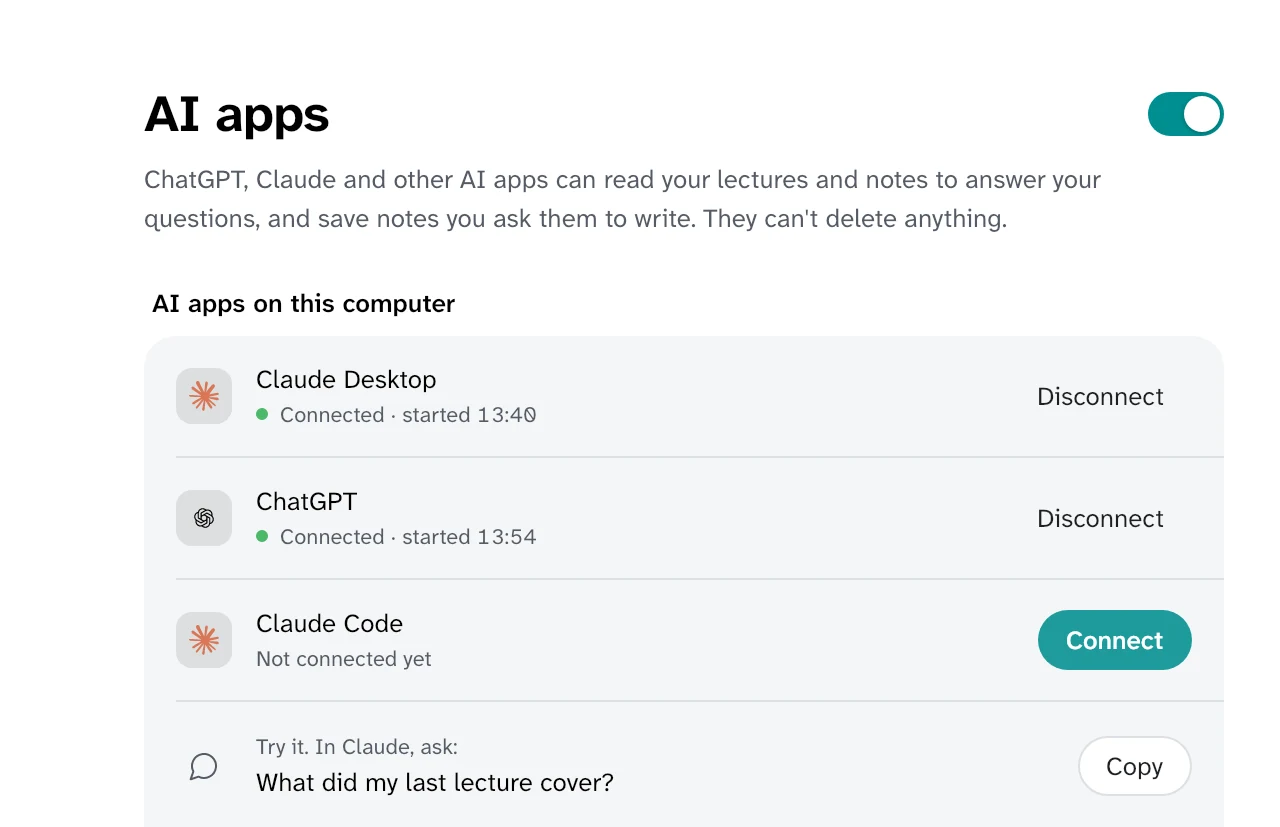
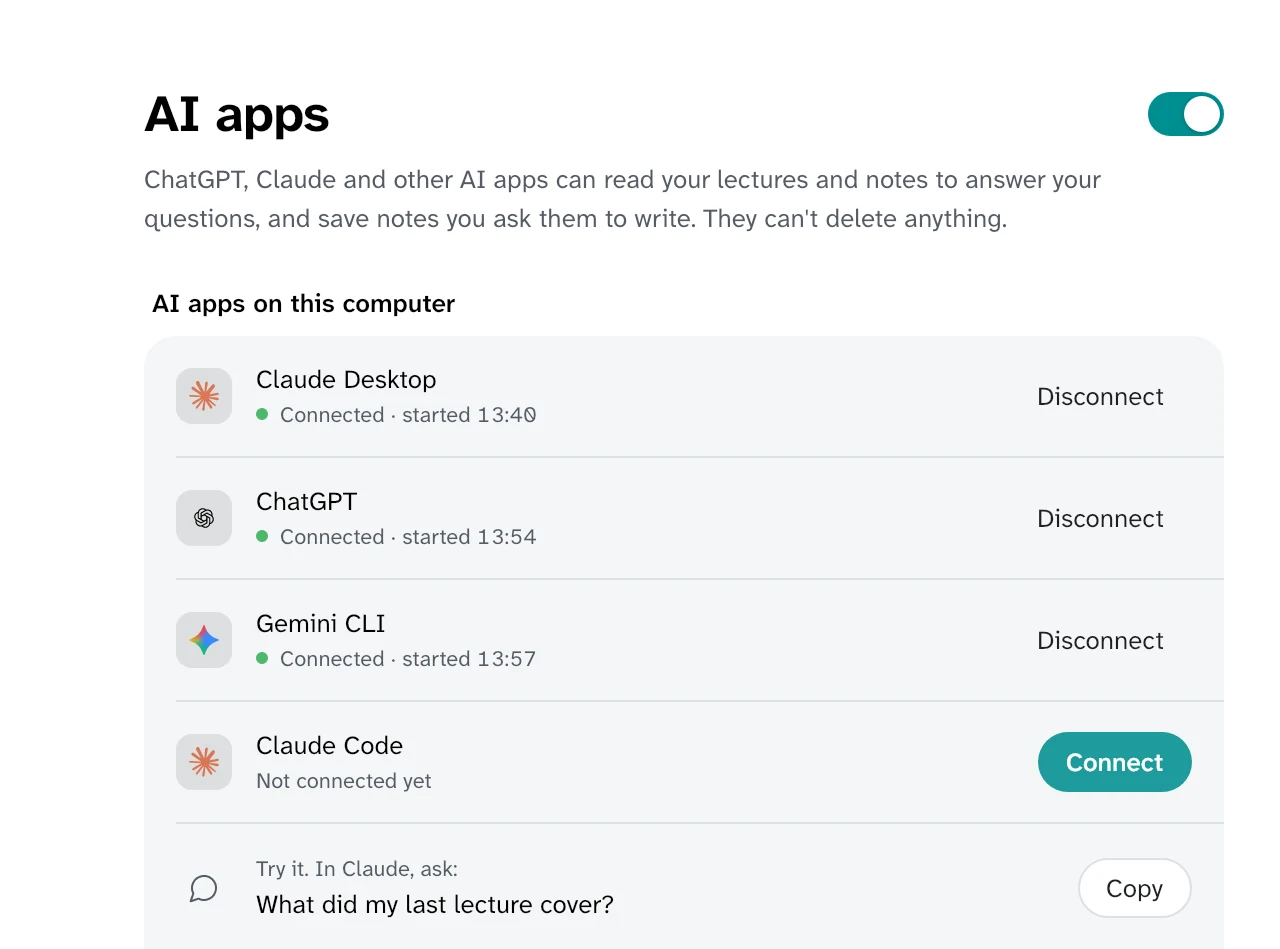
The website's hero centres the pixel s in its tile (the bits around it, the whole drawing a little smaller to leave them room), and Connect shows Gemini beside Claude and ChatGPT, in its words and in its picture

diff --git a/site/index.html b/site/index.html
@@ -70,17 +70,21 @@
       <figure class="hero-mark">
         <div class="tile tile-light">
           <svg class="mark-light" viewBox="0 0 100 100" role="img" aria-label="Syft Notes">
+            <g transform="translate(50 50) scale(0.85) translate(-50 -57.1)">
             <g class="sv-mesh" fill="#EFEDE8"><rect x="26.7" y="29.8" width="6.6" height="6.6" rx="1.8"/><rect x="34.7" y="29.8" width="6.6" height="6.6" rx="1.8"/><rect x="42.7" y="29.8" width="6.6" height="6.6" rx="1.8"/><rect x="50.7" y="29.8" width="6.6" height="6.6" rx="1.8"/><rect x="58.7" y="29.8" width="6.6" height="6.6" rx="1.8"/><rect x="66.7" y="29.8" width="6.6" height="6.6" rx="1.8"/><rect x="26.7" y="37.8" width="6.6" height="6.6" rx="1.8"/><rect x="34.7" y="37.8" width="6.6" height="6.6" rx="1.8"/><rect x="42.7" y="37.8" width="6.6" height="6.6" rx="1.8"/><rect x="50.7" y="37.8" width="6.6" height="6.6" rx="1.8"/><rect x="58.7" y="37.8" width="6.6" height="6.6" rx="1.8"/><rect x="66.7" y="37.8" width="6.6" height="6.6" rx="1.8"/><rect x="26.7" y="45.8" width="6.6" height="6.6" rx="1.8"/><rect x="34.7" y="45.8" width="6.6" height="6.6" rx="1.8"/><rect x="42.7" y="45.8" width="6.6" height="6.6" rx="1.8"/><rect x="50.7" y="45.8" width="6.6" height="6.6" rx="1.8"/><rect x="58.7" y="45.8" width="6.6" height="6.6" rx="1.8"/><rect x="66.7" y="45.8" width="6.6" height="6.6" rx="1.8"/><rect x="26.7" y="53.8" width="6.6" height="6.6" rx="1.8"/><rect x="34.7" y="53.8" width="6.6" height="6.6" rx="1.8"/><rect x="42.7" y="53.8" width="6.6" height="6.6" rx="1.8"/><rect x="50.7" y="53.8" width="6.6" height="6.6" rx="1.8"/><rect x="58.7" y="53.8" width="6.6" height="6.6" rx="1.8"/><rect x="66.7" y="53.8" width="6.6" height="6.6" rx="1.8"/><rect x="26.7" y="61.8" width="6.6" height="6.6" rx="1.8"/><rect x="34.7" y="61.8" width="6.6" height="6.6" rx="1.8"/><rect x="42.7" y="61.8" width="6.6" height="6.6" rx="1.8"/><rect x="50.7" y="61.8" width="6.6" height="6.6" rx="1.8"/><rect x="58.7" y="61.8" width="6.6" height="6.6" rx="1.8"/><rect x="66.7" y="61.8" width="6.6" height="6.6" rx="1.8"/><rect x="26.7" y="69.8" width="6.6" height="6.6" rx="1.8"/><rect x="34.7" y="69.8" width="6.6" height="6.6" rx="1.8"/><rect x="42.7" y="69.8" width="6.6" height="6.6" rx="1.8"/><rect x="50.7" y="69.8" width="6.6" height="6.6" rx="1.8"/><rect x="58.7" y="69.8" width="6.6" height="6.6" rx="1.8"/><rect x="66.7" y="69.8" width="6.6" height="6.6" rx="1.8"/><rect x="26.7" y="77.8" width="6.6" height="6.6" rx="1.8"/><rect x="34.7" y="77.8" width="6.6" height="6.6" rx="1.8"/><rect x="42.7" y="77.8" width="6.6" height="6.6" rx="1.8"/><rect x="50.7" y="77.8" width="6.6" height="6.6" rx="1.8"/><rect x="58.7" y="77.8" width="6.6" height="6.6" rx="1.8"/><rect x="66.7" y="77.8" width="6.6" height="6.6" rx="1.8"/></g>
             <g class="sv-bits"><rect class="sv-fall b0" x="30" y="-10" width="5.6" height="5.6" rx="1.6" fill="#FF6E4E"/><rect class="sv-fall b1" x="46" y="-10" width="5.6" height="5.6" rx="1.6" fill="#A3DAF2"/><rect class="sv-fall b2" x="58" y="-10" width="5.6" height="5.6" rx="1.6" fill="#CDBDFF"/><rect class="sv-fall b3" x="70" y="-10" width="5.6" height="5.6" rx="1.6" fill="#FFC943"/><rect class="sv-fall b4" x="38" y="-10" width="5.6" height="5.6" rx="1.6" fill="#16131D"/><rect class="sv-fall b5" x="64" y="-10" width="5.6" height="5.6" rx="1.6" fill="#FF6E4E"/></g>
             <g class="sv-s"><rect class="sv-pop p0" x="66.7" y="37.8" width="6.6" height="6.6" rx="1.8" fill="#CDBDFF"/><rect class="sv-pop p1" x="66.7" y="29.8" width="6.6" height="6.6" rx="1.8" fill="#CDBDFF"/><rect class="sv-pop p2" x="58.7" y="29.8" width="6.6" height="6.6" rx="1.8" fill="#CDBDFF"/><rect class="sv-pop p3" x="50.7" y="29.8" width="6.6" height="6.6" rx="1.8" fill="#CDBDFF"/><rect class="sv-pop p4" x="42.7" y="29.8" width="6.6" height="6.6" rx="1.8" fill="#CDBDFF"/><rect class="sv-pop p5" x="34.7" y="29.8" width="6.6" height="6.6" rx="1.8" fill="#CDBDFF"/><rect class="sv-pop p6" x="26.7" y="37.8" width="6.6" height="6.6" rx="1.8" fill="#CDBDFF"/><rect class="sv-pop p7" x="34.7" y="37.8" width="6.6" height="6.6" rx="1.8" fill="#CDBDFF"/><rect class="sv-pop p8" x="26.7" y="45.8" width="6.6" height="6.6" rx="1.8" fill="#A3DAF2"/><rect class="sv-pop p9" x="34.7" y="45.8" width="6.6" height="6.6" rx="1.8" fill="#A3DAF2"/><rect class="sv-pop p10" x="34.7" y="53.8" width="6.6" height="6.6" rx="1.8" fill="#A3DAF2"/><rect class="sv-pop p11" x="42.7" y="53.8" width="6.6" height="6.6" rx="1.8" fill="#A3DAF2"/><rect class="sv-pop p12" x="50.7" y="53.8" width="6.6" height="6.6" rx="1.8" fill="#A3DAF2"/><rect class="sv-pop p13" x="58.7" y="53.8" width="6.6" height="6.6" rx="1.8" fill="#A3DAF2"/><rect class="sv-pop p14" x="58.7" y="61.8" width="6.6" height="6.6" rx="1.8" fill="#FF6E4E"/><rect class="sv-pop p15" x="66.7" y="61.8" width="6.6" height="6.6" rx="1.8" fill="#FF6E4E"/><rect class="sv-pop p16" x="58.7" y="69.8" width="6.6" height="6.6" rx="1.8" fill="#FF6E4E"/><rect class="sv-pop p17" x="66.7" y="69.8" width="6.6" height="6.6" rx="1.8" fill="#FF6E4E"/><rect class="sv-pop p18" x="58.7" y="77.8" width="6.6" height="6.6" rx="1.8" fill="#16131D"/><rect class="sv-pop p19" x="50.7" y="77.8" width="6.6" height="6.6" rx="1.8" fill="#16131D"/><rect class="sv-pop p20" x="42.7" y="77.8" width="6.6" height="6.6" rx="1.8" fill="#16131D"/><rect class="sv-pop p21" x="34.7" y="77.8" width="6.6" height="6.6" rx="1.8" fill="#16131D"/><rect class="sv-pop p22" x="26.7" y="77.8" width="6.6" height="6.6" rx="1.8" fill="#16131D"/><rect class="sv-pop p23" x="26.7" y="69.8" width="6.6" height="6.6" rx="1.8" fill="#FF6E4E"/></g>
             <g class="sv-above"><g transform="rotate(-21 32.08 21.02)"><rect class="sv-pop q0" x="28.78" y="17.72" width="6.6" height="6.6" rx="1.8" fill="#FF6E4E"/></g><g transform="rotate(13 38.16 19.34)"><rect class="sv-pop q1" x="34.86" y="16.04" width="6.6" height="6.6" rx="1.8" fill="#CDBDFF"/></g><g transform="rotate(15 42.16 12.54)"><rect class="sv-pop q2" x="38.86" y="9.24" width="6.6" height="6.6" rx="1.8" fill="#A3DAF2"/></g><g transform="rotate(-7 51.12 16.54)"><rect class="sv-pop q3" x="47.82" y="13.24" width="6.6" height="6.6" rx="1.8" fill="#FFC943"/></g><g transform="rotate(25 60.08 14.78)"><rect class="sv-pop q4" x="56.78" y="11.48" width="6.6" height="6.6" rx="1.8" fill="#CDBDFF"/></g><g transform="rotate(-31 68.08 18.7)"><rect class="sv-pop q5" x="64.78" y="15.4" width="6.6" height="6.6" rx="1.8" fill="#16131D"/></g></g>
+            </g>
           </svg>
         </div>
         <div class="tile tile-dark">
           <svg class="mark-dark" viewBox="0 0 100 100" role="img" aria-label="Syft Notes">
+            <g transform="translate(50 50) scale(0.85) translate(-50 -41.3)">
             <g fill="#24212D"><rect x="26.7" y="14" width="6.6" height="6.6" rx="1.8"/><rect x="34.7" y="14" width="6.6" height="6.6" rx="1.8"/><rect x="42.7" y="14" width="6.6" height="6.6" rx="1.8"/><rect x="50.7" y="14" width="6.6" height="6.6" rx="1.8"/><rect x="58.7" y="14" width="6.6" height="6.6" rx="1.8"/><rect x="66.7" y="14" width="6.6" height="6.6" rx="1.8"/><rect x="26.7" y="22" width="6.6" height="6.6" rx="1.8"/><rect x="34.7" y="22" width="6.6" height="6.6" rx="1.8"/><rect x="42.7" y="22" width="6.6" height="6.6" rx="1.8"/><rect x="50.7" y="22" width="6.6" height="6.6" rx="1.8"/><rect x="58.7" y="22" width="6.6" height="6.6" rx="1.8"/><rect x="66.7" y="22" width="6.6" height="6.6" rx="1.8"/><rect x="26.7" y="30" width="6.6" height="6.6" rx="1.8"/><rect x="34.7" y="30" width="6.6" height="6.6" rx="1.8"/><rect x="42.7" y="30" width="6.6" height="6.6" rx="1.8"/><rect x="50.7" y="30" width="6.6" height="6.6" rx="1.8"/><rect x="58.7" y="30" width="6.6" height="6.6" rx="1.8"/><rect x="66.7" y="30" width="6.6" height="6.6" rx="1.8"/><rect x="26.7" y="38" width="6.6" height="6.6" rx="1.8"/><rect x="34.7" y="38" width="6.6" height="6.6" rx="1.8"/><rect x="42.7" y="38" width="6.6" height="6.6" rx="1.8"/><rect x="50.7" y="38" width="6.6" height="6.6" rx="1.8"/><rect x="58.7" y="38" width="6.6" height="6.6" rx="1.8"/><rect x="66.7" y="38" width="6.6" height="6.6" rx="1.8"/><rect x="26.7" y="46" width="6.6" height="6.6" rx="1.8"/><rect x="34.7" y="46" width="6.6" height="6.6" rx="1.8"/><rect x="42.7" y="46" width="6.6" height="6.6" rx="1.8"/><rect x="50.7" y="46" width="6.6" height="6.6" rx="1.8"/><rect x="58.7" y="46" width="6.6" height="6.6" rx="1.8"/><rect x="66.7" y="46" width="6.6" height="6.6" rx="1.8"/><rect x="26.7" y="54" width="6.6" height="6.6" rx="1.8"/><rect x="34.7" y="54" width="6.6" height="6.6" rx="1.8"/><rect x="42.7" y="54" width="6.6" height="6.6" rx="1.8"/><rect x="50.7" y="54" width="6.6" height="6.6" rx="1.8"/><rect x="58.7" y="54" width="6.6" height="6.6" rx="1.8"/><rect x="66.7" y="54" width="6.6" height="6.6" rx="1.8"/><rect x="26.7" y="62" width="6.6" height="6.6" rx="1.8"/><rect x="34.7" y="62" width="6.6" height="6.6" rx="1.8"/><rect x="42.7" y="62" width="6.6" height="6.6" rx="1.8"/><rect x="50.7" y="62" width="6.6" height="6.6" rx="1.8"/><rect x="58.7" y="62" width="6.6" height="6.6" rx="1.8"/><rect x="66.7" y="62" width="6.6" height="6.6" rx="1.8"/></g>
             <g class="s1"><rect class="sf-in p0" x="66.7" y="22" width="6.6" height="6.6" rx="1.8" fill="#CDBDFF"/><rect class="sf-in p1" x="66.7" y="14" width="6.6" height="6.6" rx="1.8" fill="#CDBDFF"/><rect class="sf-in p2" x="58.7" y="14" width="6.6" height="6.6" rx="1.8" fill="#CDBDFF"/><rect class="sf-in p3" x="50.7" y="14" width="6.6" height="6.6" rx="1.8" fill="#CDBDFF"/><rect class="sf-in p4" x="42.7" y="14" width="6.6" height="6.6" rx="1.8" fill="#CDBDFF"/><rect class="sf-in p5" x="34.7" y="14" width="6.6" height="6.6" rx="1.8" fill="#CDBDFF"/><rect class="sf-in p6" x="26.7" y="22" width="6.6" height="6.6" rx="1.8" fill="#CDBDFF"/><rect class="sf-in p7" x="34.7" y="22" width="6.6" height="6.6" rx="1.8" fill="#CDBDFF"/><rect class="sf-in p8" x="26.7" y="30" width="6.6" height="6.6" rx="1.8" fill="#A3DAF2"/><rect class="sf-in p9" x="34.7" y="30" width="6.6" height="6.6" rx="1.8" fill="#A3DAF2"/><rect class="sf-in p10" x="34.7" y="38" width="6.6" height="6.6" rx="1.8" fill="#A3DAF2"/><rect class="sf-in p11" x="42.7" y="38" width="6.6" height="6.6" rx="1.8" fill="#A3DAF2"/><rect class="sf-in p12" x="50.7" y="38" width="6.6" height="6.6" rx="1.8" fill="#A3DAF2"/><rect class="sf-in p13" x="58.7" y="38" width="6.6" height="6.6" rx="1.8" fill="#A3DAF2"/><rect class="sf-in p14" x="58.7" y="46" width="6.6" height="6.6" rx="1.8" fill="#FF6E4E"/><rect class="sf-in p15" x="66.7" y="46" width="6.6" height="6.6" rx="1.8" fill="#FF6E4E"/><rect class="sf-in p16" x="58.7" y="54" width="6.6" height="6.6" rx="1.8" fill="#FF6E4E"/><rect class="sf-in p17" x="66.7" y="54" width="6.6" height="6.6" rx="1.8" fill="#FF6E4E"/><rect class="sf-in p18" x="58.7" y="62" width="6.6" height="6.6" rx="1.8" fill="#FFC943"/><rect class="sf-in p19" x="50.7" y="62" width="6.6" height="6.6" rx="1.8" fill="#FFC943"/><rect class="sf-in p20" x="42.7" y="62" width="6.6" height="6.6" rx="1.8" fill="#FFC943"/><rect class="sf-in p21" x="34.7" y="62" width="6.6" height="6.6" rx="1.8" fill="#FFC943"/><rect class="sf-in p22" x="26.7" y="62" width="6.6" height="6.6" rx="1.8" fill="#FFC943"/><rect class="sf-in p23" x="26.7" y="54" width="6.6" height="6.6" rx="1.8" fill="#FF6E4E"/></g>
             <g class="sf-out"><g transform="rotate(20 38 78.1)"><rect class="fo k0" x="34.7" y="74.8" width="6.6" height="6.6" rx="1.8" fill="#FF6E4E"/></g><g transform="rotate(-17 52.08 84.1)"><rect class="fo k1" x="49.18" y="81.2" width="5.8" height="5.8" rx="1.58" fill="#A3DAF2"/></g><g transform="rotate(35 63.12 77.06)"><rect class="fo k2" x="60.62" y="74.56" width="5" height="5" rx="1.36" fill="#CDBDFF"/></g></g>
+            </g>
           </svg>
         </div>
       </figure>
@@ -259,16 +263,16 @@
   <div class="feature-grid">
     <div class="feature-text">
       <h2 id="connect-title">Connect</h2>
-      <p class="feature-sub">Works with Claude and ChatGPT.</p>
-      <p>Turn it on in Settings, and the Claude and ChatGPT apps on your computer can read your lectures and notes to answer your questions. They can't change or delete anything.</p>
+      <p class="feature-sub">Works with Claude, ChatGPT and Gemini.</p>
+      <p>Turn it on in Settings, and the Claude, ChatGPT and Gemini apps on your computer can read your lectures and notes to answer your questions. They can't change or delete anything.</p>
         <ul>
           <li>One Connect button for each app, nothing to type or paste</li>
           <li>You choose what they can read: lectures, notes, Canvas</li>
         </ul>
     </div>
     <figure class="card"><picture>
-      <img src="assets/img/ai-apps.webp?v=6" width="1280" height="827" loading="lazy"
-      alt="Settings, AI apps: Claude Desktop and ChatGPT connected, Claude Code one Connect button away, and a question to try in Claude."></picture></figure>
+      <img src="assets/img/ai-apps.webp?v=7" width="1280" height="949" loading="lazy"
+      alt="Settings, AI apps: Claude Desktop, ChatGPT and Gemini connected, Claude Code one Connect button away, and a question to try in Claude."></picture></figure>
   </div>
 </article>
 

diff --git a/engine/tests/StudyStash.App.Tests/SiteShots.cs b/engine/tests/StudyStash.App.Tests/SiteShots.cs
@@ -205,7 +205,7 @@ public class SiteShots
     /// <summary>Settings → AI apps: Claude Desktop and ChatGPT connected, Claude Code with its Connect button.</summary>
     static void AiApps(ThemeVariant t)
     {
-        // As a student sees it once it's set up: Claude and ChatGPT connected, Claude Code one Connect away. Each
+        // As a student sees it once it's set up: Claude, ChatGPT and Gemini connected, Claude Code one Connect away. Each
         // button as it is in the app, where every row's Connect and Disconnect do something.
         var access = AiShots.AccessModel();
         access.Apps.Clear();
@@ -214,6 +214,7 @@ public class SiteShots
         {
             ("claude-desktop", "Claude Desktop", true, now.AddMinutes(-20)),
             ("codex", "ChatGPT", true, now.AddMinutes(-6)),
+            ("gemini", "Gemini CLI", true, now.AddMinutes(-3)),
             ("claude-code", "Claude Code", false, null),
         })
         {
